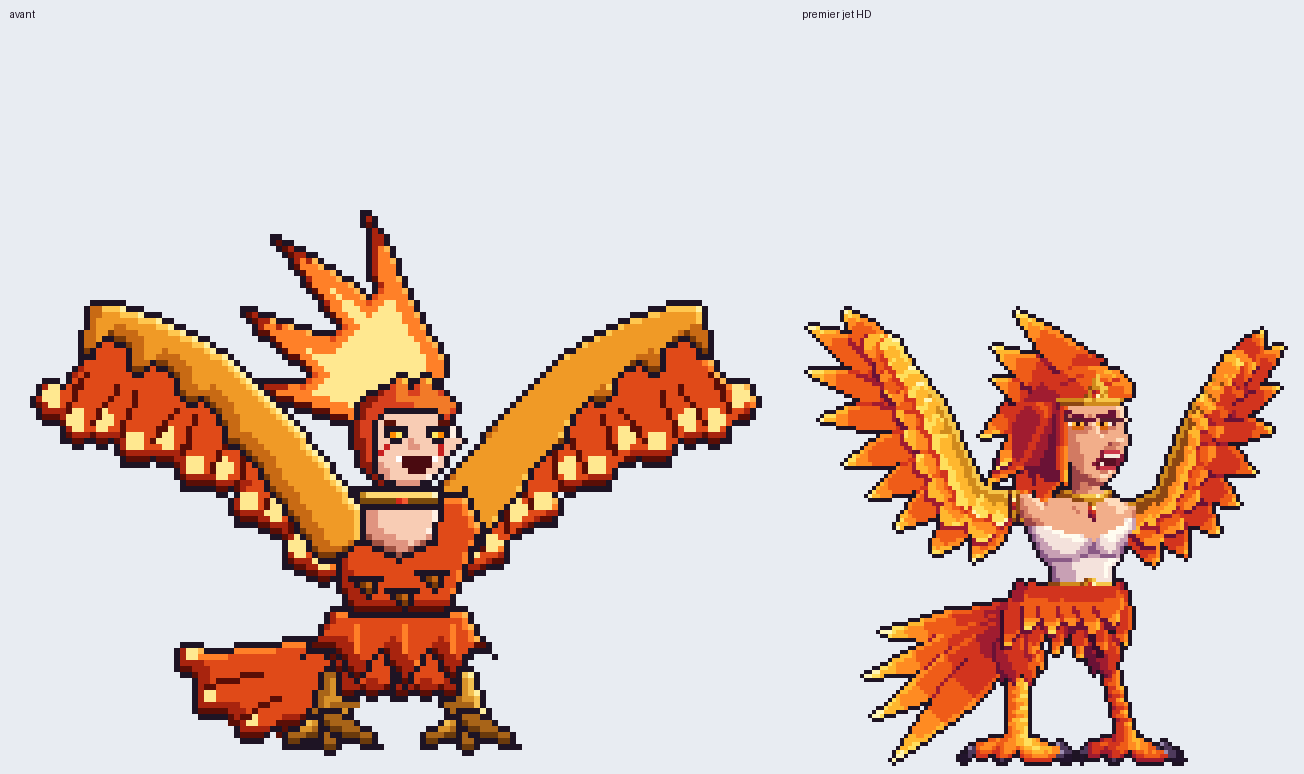
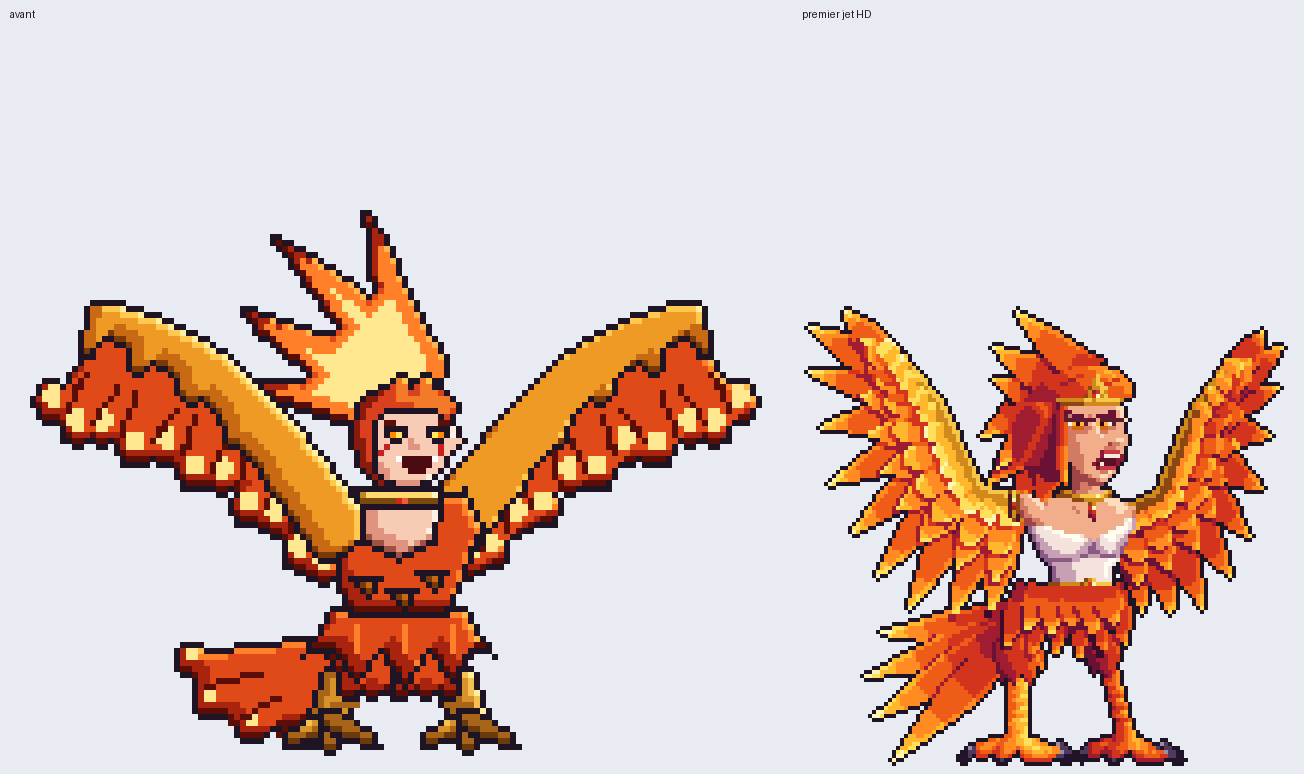
Héros HD : ailes de Rook plus hautes et plus garnies
Claude-Session: https://claude.ai/code/session_01StTiAY1KCerfi9tSgksXg5

Changed region(s): [[0.6135, 0.4341, 0.7975, 0.8062], [0.8589, 0.4341, 0.9816, 0.8062]]

diff --git a/refonte-graphique/pixel/hd/suivi.py b/refonte-graphique/pixel/hd/suivi.py
@@ -55,7 +55,7 @@ RETOUCHES = {
     'rook': "Ailes plus grandes en hauteur et plus garnies, mais pas plus longues.",
 }
 # retouches faites, en attente du regard du propriétaire
-FAITES = set()
+FAITES = {'rook'}
 ELEMENTS = [('eau', 'Eau'), ('terre', 'Terre'), ('feu', 'Feu'), ('vent', 'Vent')]
 
 
